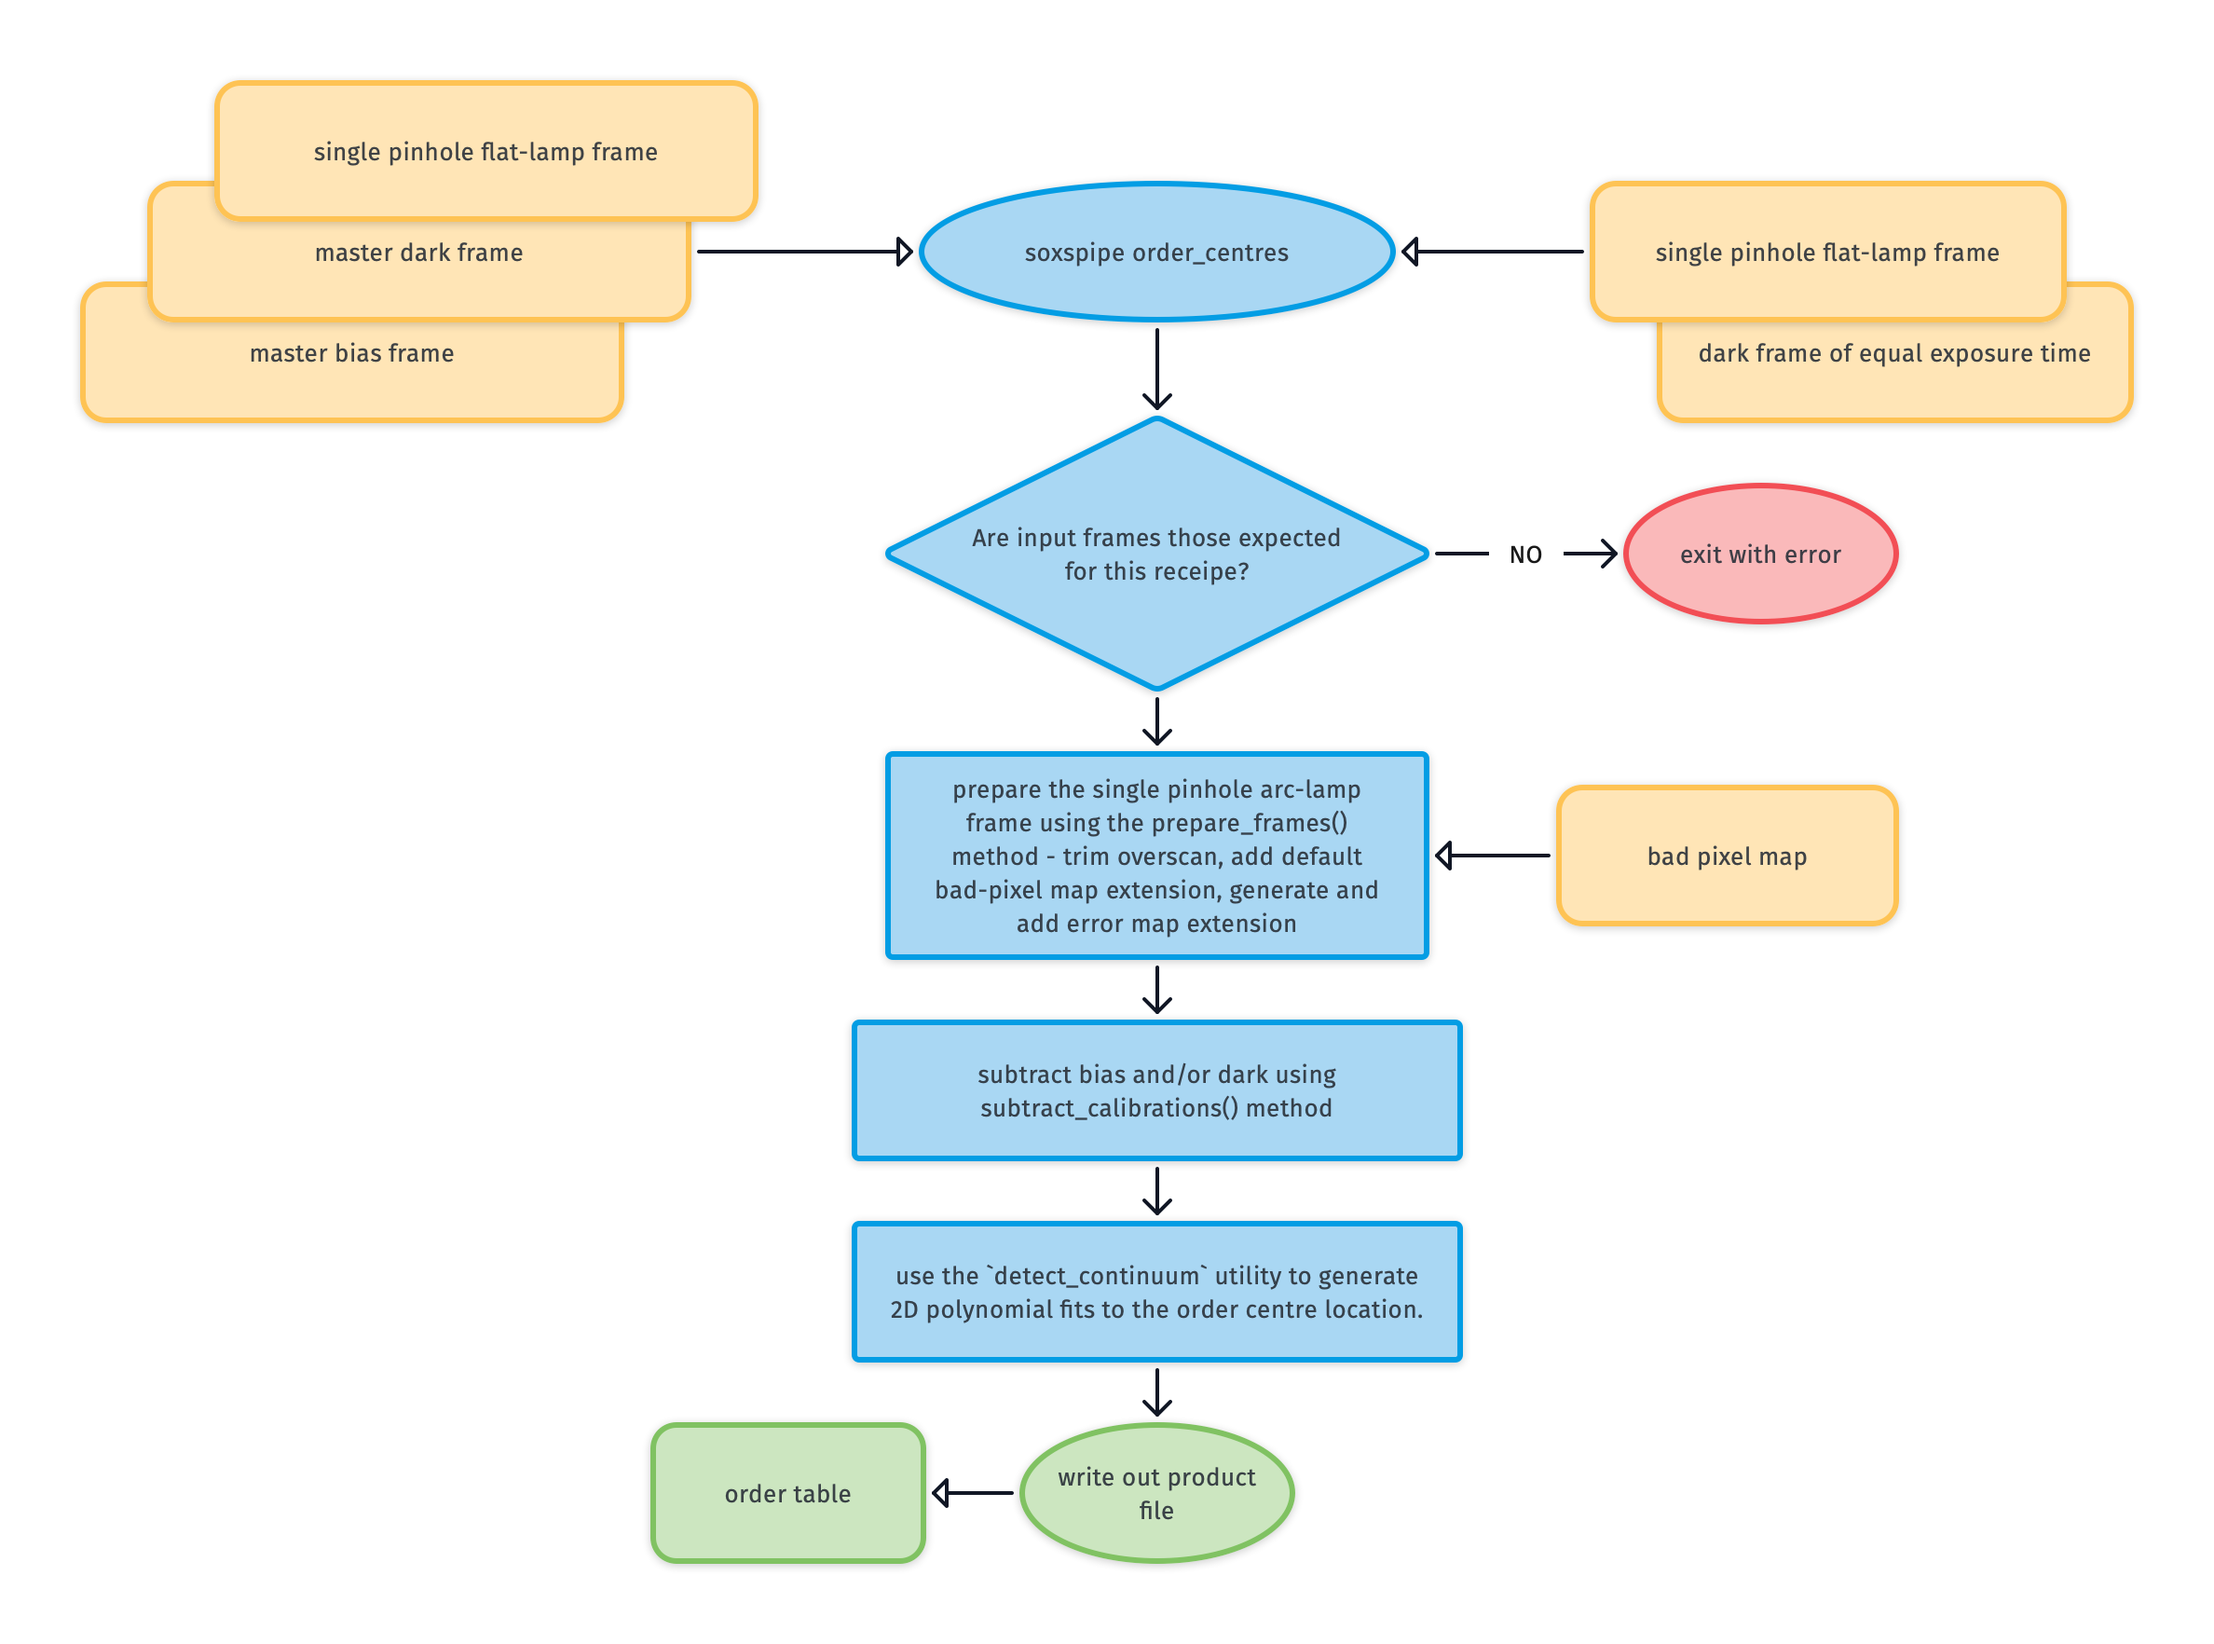
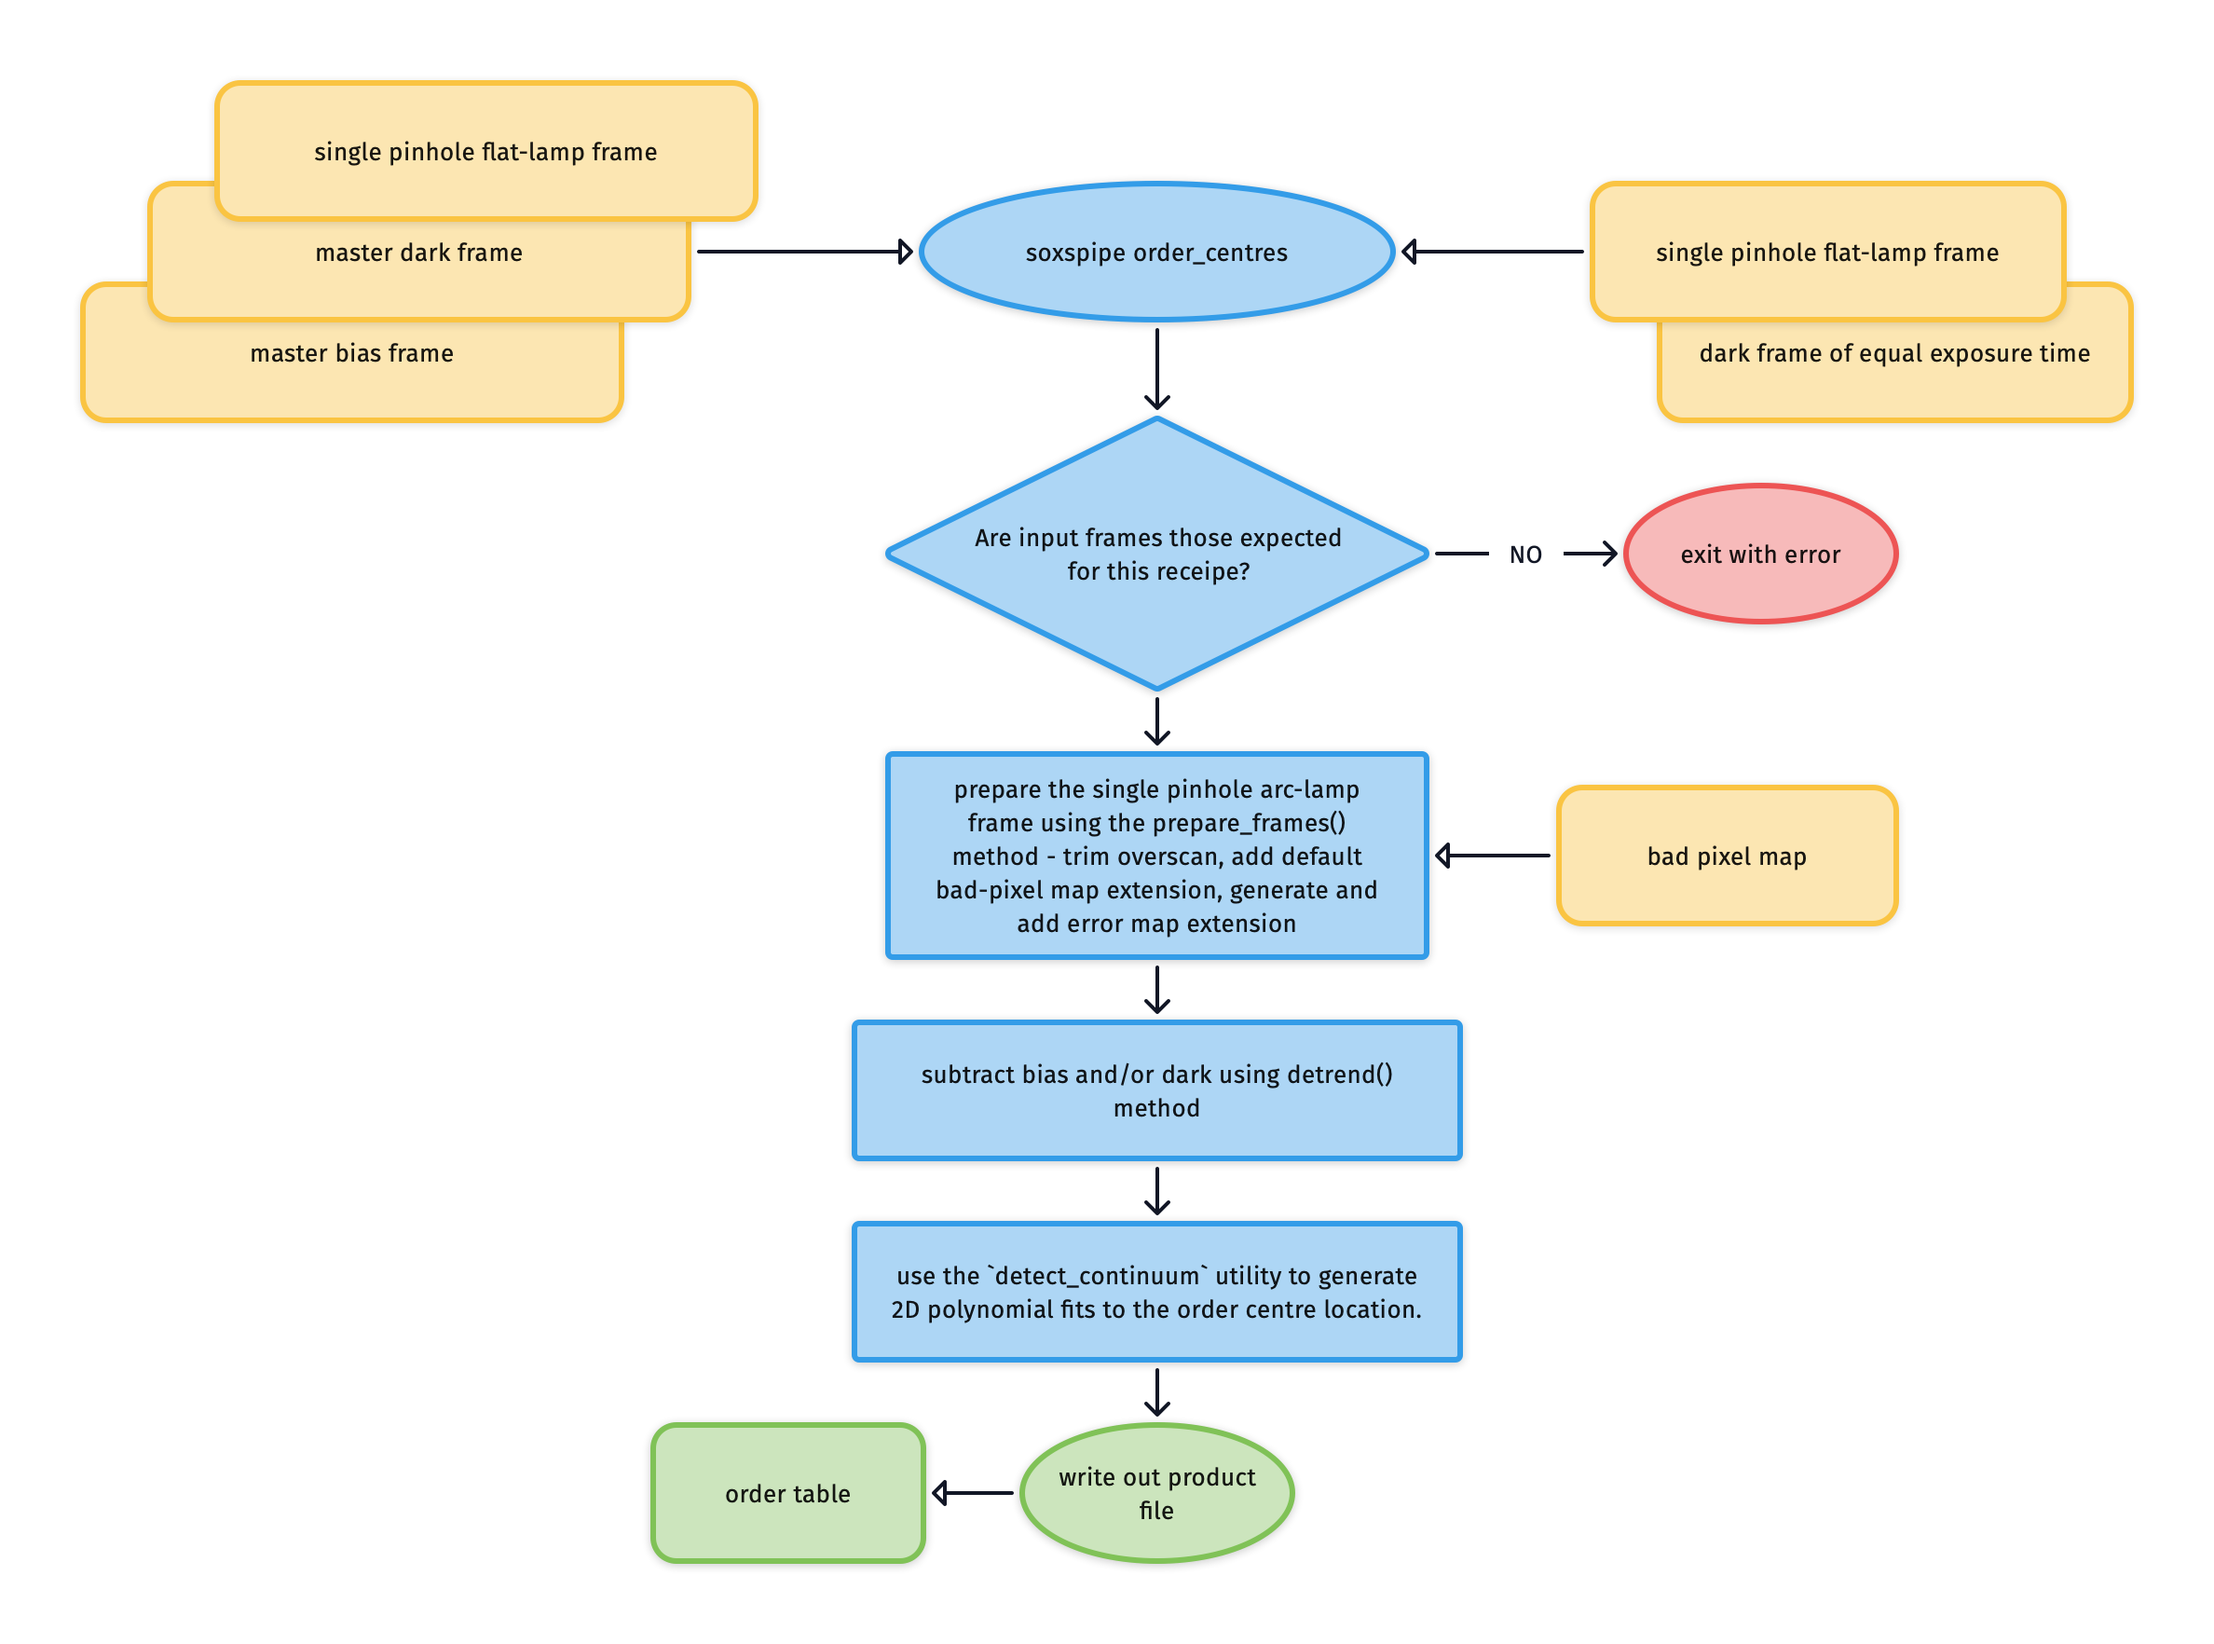
subtraction_calibrations renamed to detrend in all docs and workflow diagrams

diff --git a/docs/source/utils/detrend.md b/docs/source/utils/detrend.md
@@ -5,4 +5,4 @@ For the UVB-VIS arm we will often need to scale the master-dark frame to match t
 
 This logic is all housed within the [`detrend`](../_api/soxspipe.recipes._base_recipe_.html#soxspipe.recipes._base_recipe_._base_recipe_.detrend) method.
 
-![](subtract_calibrations.png)
+![](detrend.png)
